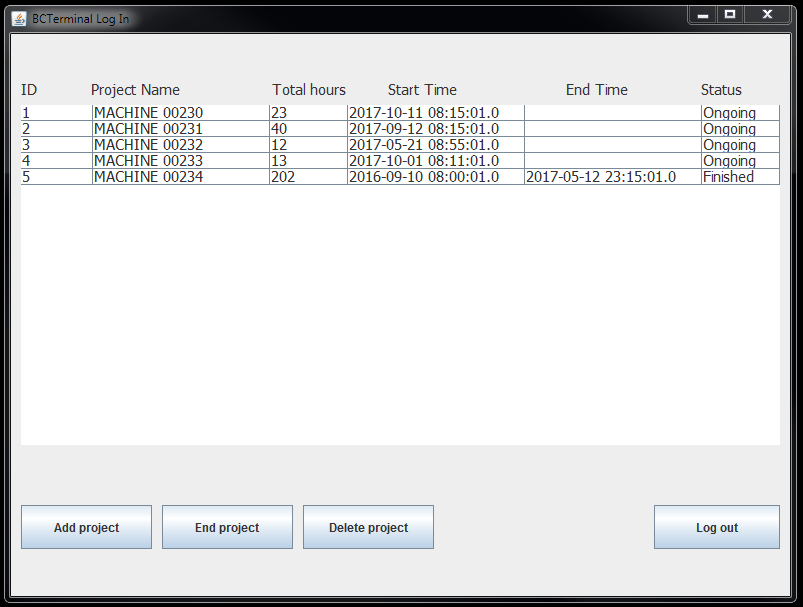
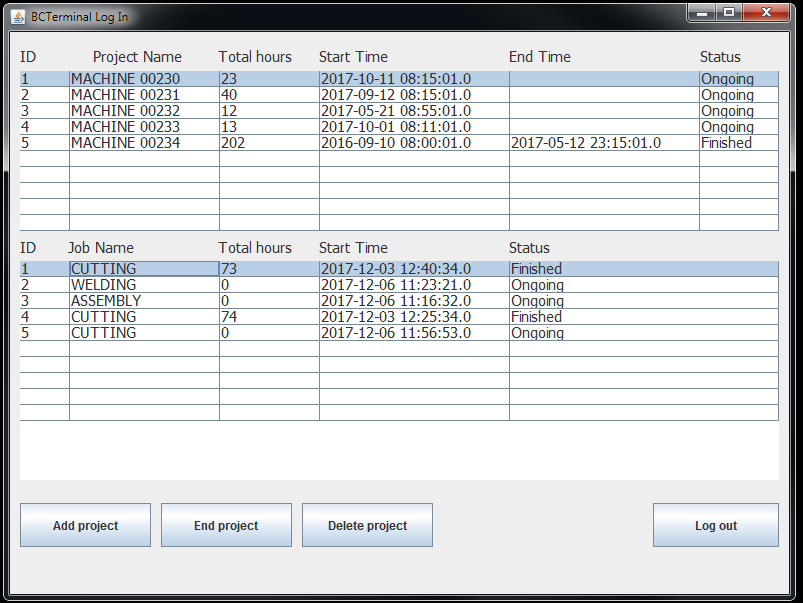
Pushing

Changed region(s): [[0.0, 0.0, 0.9963, 1.0], [0.2179, 0.806, 0.5293, 0.8358]]

diff --git a/src/terminal/TerminaGUI.java b/src/terminal/TerminaGUI.java
@@ -67,14 +67,14 @@ public class TerminaGUI extends JFrame {
 		
 		
 		idField = new JTextField();
-		idField.setBounds(244, 175, 284, 90);
+		idField.setBounds(246, 146, 284, 88);
 		LoginScreen.add(idField);
 		idField.setHorizontalAlignment(SwingConstants.CENTER);
 		idField.setFont(new Font("Tahoma", Font.PLAIN, 18));
 		idField.setColumns(10);
 		
 		JLabel lblWelcome = new JLabel("Scan you ID card");
-		lblWelcome.setBounds(189, 40, 414, 124);
+		lblWelcome.setBounds(246, 14, 284, 121);
 		LoginScreen.add(lblWelcome);
 		lblWelcome.setFont(new Font("Tahoma", Font.PLAIN, 33));
 		lblWelcome.setHorizontalAlignment(SwingConstants.CENTER);
@@ -88,15 +88,40 @@ public class TerminaGUI extends JFrame {
 					"ID", "Name", "Total Hours", "Start Time", "End Time", "Finished"
 				}
 			);
-			onGoingProjects.setModel(tableModel2);
+			onGoingProjects.setModel(new DefaultTableModel(
+				new Object[][] {
+					{null, null, null, null, null, null},
+					{null, null, null, null, null, null},
+					{null, null, null, null, null, null},
+					{null, null, null, null, null, null},
+					{null, null, null, null, null, null},
+					{null, null, null, null, null, null},
+					{null, null, null, null, null, null},
+					{null, null, null, null, null, null},
+					{null, null, null, null, null, null},
+					{null, null, null, null, null, null},
+				},
+				new String[] {
+					"ID", "Name", "Total Hours", "Start Time", "End Time", "Finished"
+				}
+			));
+			onGoingProjects.getColumnModel().getColumn(0).setPreferredWidth(50);
+			onGoingProjects.getColumnModel().getColumn(0).setMinWidth(50);
+			onGoingProjects.getColumnModel().getColumn(0).setMaxWidth(50);
+			onGoingProjects.getColumnModel().getColumn(1).setPreferredWidth(150);
+			onGoingProjects.getColumnModel().getColumn(1).setMinWidth(150);
+			onGoingProjects.getColumnModel().getColumn(1).setMaxWidth(150);
+			onGoingProjects.getColumnModel().getColumn(2).setPreferredWidth(100);
+			onGoingProjects.getColumnModel().getColumn(2).setMinWidth(100);
+			onGoingProjects.getColumnModel().getColumn(2).setMaxWidth(100);
+			onGoingProjects.getColumnModel().getColumn(3).setPreferredWidth(190);
+			onGoingProjects.getColumnModel().getColumn(3).setMinWidth(190);
+			onGoingProjects.getColumnModel().getColumn(3).setMaxWidth(190);
+			onGoingProjects.getColumnModel().getColumn(4).setPreferredWidth(190);
+			onGoingProjects.getColumnModel().getColumn(4).setMinWidth(190);
+			onGoingProjects.getColumnModel().getColumn(4).setMaxWidth(190);
+			onGoingProjects.getColumnModel().getColumn(5).setPreferredWidth(20);
 		AdminView.add(onGoingProjects);
-		
-		onGoingProjects.getColumnModel().getColumn(0).setPreferredWidth(10);
-		onGoingProjects.getColumnModel().getColumn(1).setPreferredWidth(120);
-		onGoingProjects.getColumnModel().getColumn(2).setPreferredWidth(20);
-		onGoingProjects.getColumnModel().getColumn(3).setPreferredWidth(120);
-		onGoingProjects.getColumnModel().getColumn(4).setPreferredWidth(120);
-		onGoingProjects.getColumnModel().getColumn(5).setPreferredWidth(20);
 		onGoingProjects.setAutoResizeMode(JTable.AUTO_RESIZE_LAST_COLUMN);
 		
 		
@@ -216,11 +241,35 @@ public class TerminaGUI extends JFrame {
 					"ID", "Name", "Total Time", "StartTime", "End Time"
 				}
 			);
-		AdminJobs.setModel(tableModel3);
-		AdminJobs.getColumnModel().getColumn(0).setPreferredWidth(10);
-		AdminJobs.getColumnModel().getColumn(1).setPreferredWidth(120);
-		AdminJobs.getColumnModel().getColumn(2).setPreferredWidth(20);
-		AdminJobs.getColumnModel().getColumn(3).setPreferredWidth(120);
+		AdminJobs.setModel(new DefaultTableModel(
+			new Object[][] {
+				{null, null, null, null, null},
+				{null, null, null, null, null},
+				{null, null, null, null, null},
+				{null, null, null, null, null},
+				{null, null, null, null, null},
+				{null, null, null, null, null},
+				{null, null, null, null, null},
+				{null, null, null, null, null},
+				{null, null, null, null, null},
+				{null, null, null, null, null},
+			},
+			new String[] {
+				"ID", "Name", "Total Time", "StartTime", "End Time"
+			}
+		));
+		AdminJobs.getColumnModel().getColumn(0).setPreferredWidth(50);
+		AdminJobs.getColumnModel().getColumn(0).setMinWidth(50);
+		AdminJobs.getColumnModel().getColumn(0).setMaxWidth(50);
+		AdminJobs.getColumnModel().getColumn(1).setPreferredWidth(150);
+		AdminJobs.getColumnModel().getColumn(1).setMinWidth(150);
+		AdminJobs.getColumnModel().getColumn(1).setMaxWidth(150);
+		AdminJobs.getColumnModel().getColumn(2).setPreferredWidth(100);
+		AdminJobs.getColumnModel().getColumn(2).setMinWidth(100);
+		AdminJobs.getColumnModel().getColumn(2).setMaxWidth(100);
+		AdminJobs.getColumnModel().getColumn(3).setPreferredWidth(190);
+		AdminJobs.getColumnModel().getColumn(3).setMinWidth(190);
+		AdminJobs.getColumnModel().getColumn(3).setMaxWidth(190);
 		AdminJobs.getColumnModel().getColumn(4).setPreferredWidth(140);
 		AdminJobs.setAutoResizeMode(JTable.AUTO_RESIZE_LAST_COLUMN);
 		
@@ -311,7 +360,7 @@ public class TerminaGUI extends JFrame {
 		});
 		
 		
-		btnNewButton.setBounds(276, 302, 241, 115);
+		btnNewButton.setBounds(246, 282, 284, 115);
 		LoginScreen.add(btnNewButton);
 		btnNewButton.setFont(new Font("Tahoma", Font.PLAIN, 40));
 		
@@ -409,17 +458,17 @@ public class TerminaGUI extends JFrame {
 		
 		JLabel lblTotalHours = new JLabel("Total hours");
 		lblTotalHours.setFont(new Font("Tahoma", Font.PLAIN, 15));
-		lblTotalHours.setBounds(261, 11, 79, 27);
+		lblTotalHours.setBounds(208, 11, 79, 27);
 		AdminView.add(lblTotalHours);
 		
 		JLabel lblStartTime = new JLabel("Start Time");
 		lblStartTime.setFont(new Font("Tahoma", Font.PLAIN, 15));
-		lblStartTime.setBounds(377, 11, 86, 27);
+		lblStartTime.setBounds(309, 11, 86, 27);
 		AdminView.add(lblStartTime);
 		
 		JLabel lblEndTime = new JLabel("End Time");
 		lblEndTime.setFont(new Font("Tahoma", Font.PLAIN, 15));
-		lblEndTime.setBounds(552, 11, 79, 27);
+		lblEndTime.setBounds(499, 11, 79, 27);
 		AdminView.add(lblEndTime);
 		
 		JLabel lblStatus = new JLabel("Status");
@@ -432,24 +481,24 @@ public class TerminaGUI extends JFrame {
 		label.setBounds(10, 202, 28, 27);
 		AdminView.add(label);
 		
-		JLabel label_1 = new JLabel("Project Name");
-		label_1.setFont(new Font("Tahoma", Font.PLAIN, 15));
-		label_1.setBounds(118, 202, 164, 27);
-		AdminView.add(label_1);
+		JLabel lblJobName_1 = new JLabel("Job Name");
+		lblJobName_1.setFont(new Font("Tahoma", Font.PLAIN, 15));
+		lblJobName_1.setBounds(58, 202, 164, 27);
+		AdminView.add(lblJobName_1);
 		
 		JLabel label_2 = new JLabel("Total hours");
 		label_2.setFont(new Font("Tahoma", Font.PLAIN, 15));
-		label_2.setBounds(246, 202, 79, 27);
+		label_2.setBounds(208, 202, 79, 27);
 		AdminView.add(label_2);
 		
 		JLabel label_3 = new JLabel("Start Time");
 		label_3.setFont(new Font("Tahoma", Font.PLAIN, 15));
-		label_3.setBounds(377, 202, 86, 27);
+		label_3.setBounds(309, 202, 86, 27);
 		AdminView.add(label_3);
 		
 		JLabel label_4 = new JLabel("Status");
 		label_4.setFont(new Font("Tahoma", Font.PLAIN, 15));
-		label_4.setBounds(573, 202, 79, 27);
+		label_4.setBounds(499, 202, 79, 27);
 		AdminView.add(label_4);
 		
 
